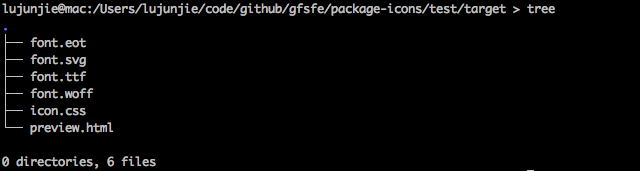
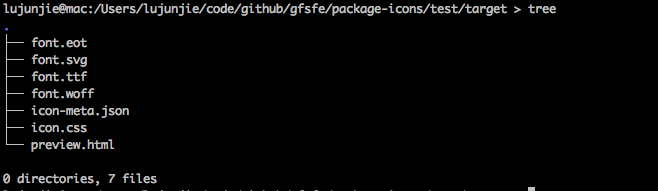
enhance document

diff --git a/README.md b/README.md
@@ -59,4 +59,21 @@ npx package-icons
 
     ![Alt text](./pictures/target.png?raw=true)
 
-    You can double click the preview.html to see the result.
+4. You can double click the preview.html to see the result.
+
+    ![Alt text](./pictures/preview.png?raw=true)
+
+5. There is a icon-meta.json which contain the meta information of the class name and font value, you can use it to generate project final css with your predefined template.
+
+    ```json
+    {
+        "w-icon-add": "e001",
+        "w-icon-close": "e002",
+        "w-icon-delete": "e003",
+        "w-icon-done": "e004",
+        "w-icon-left": "e005",
+        "w-icon-right": "e006",
+        "w-icon-share": "e007",
+        "w-icon-win": "e008"
+    }
+    ```
